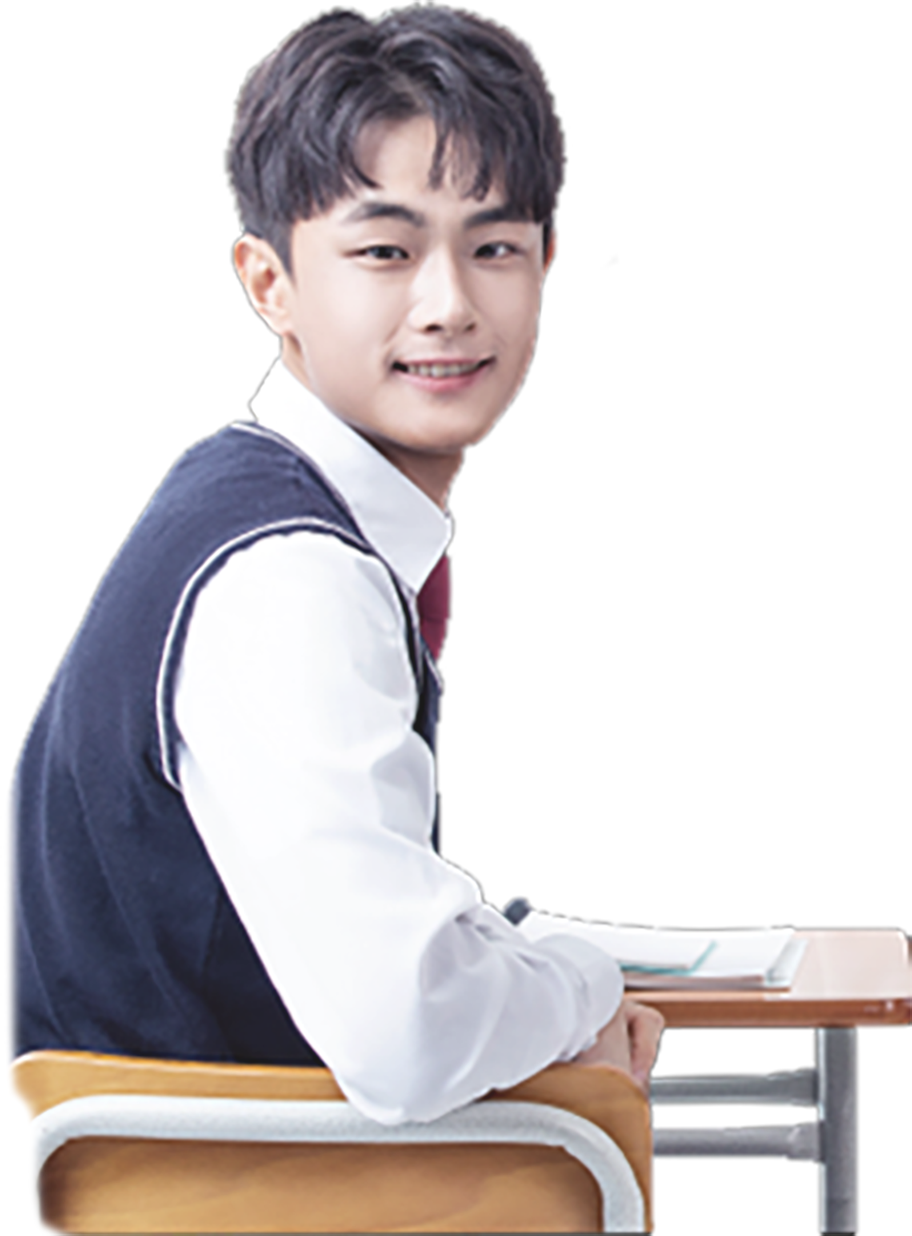
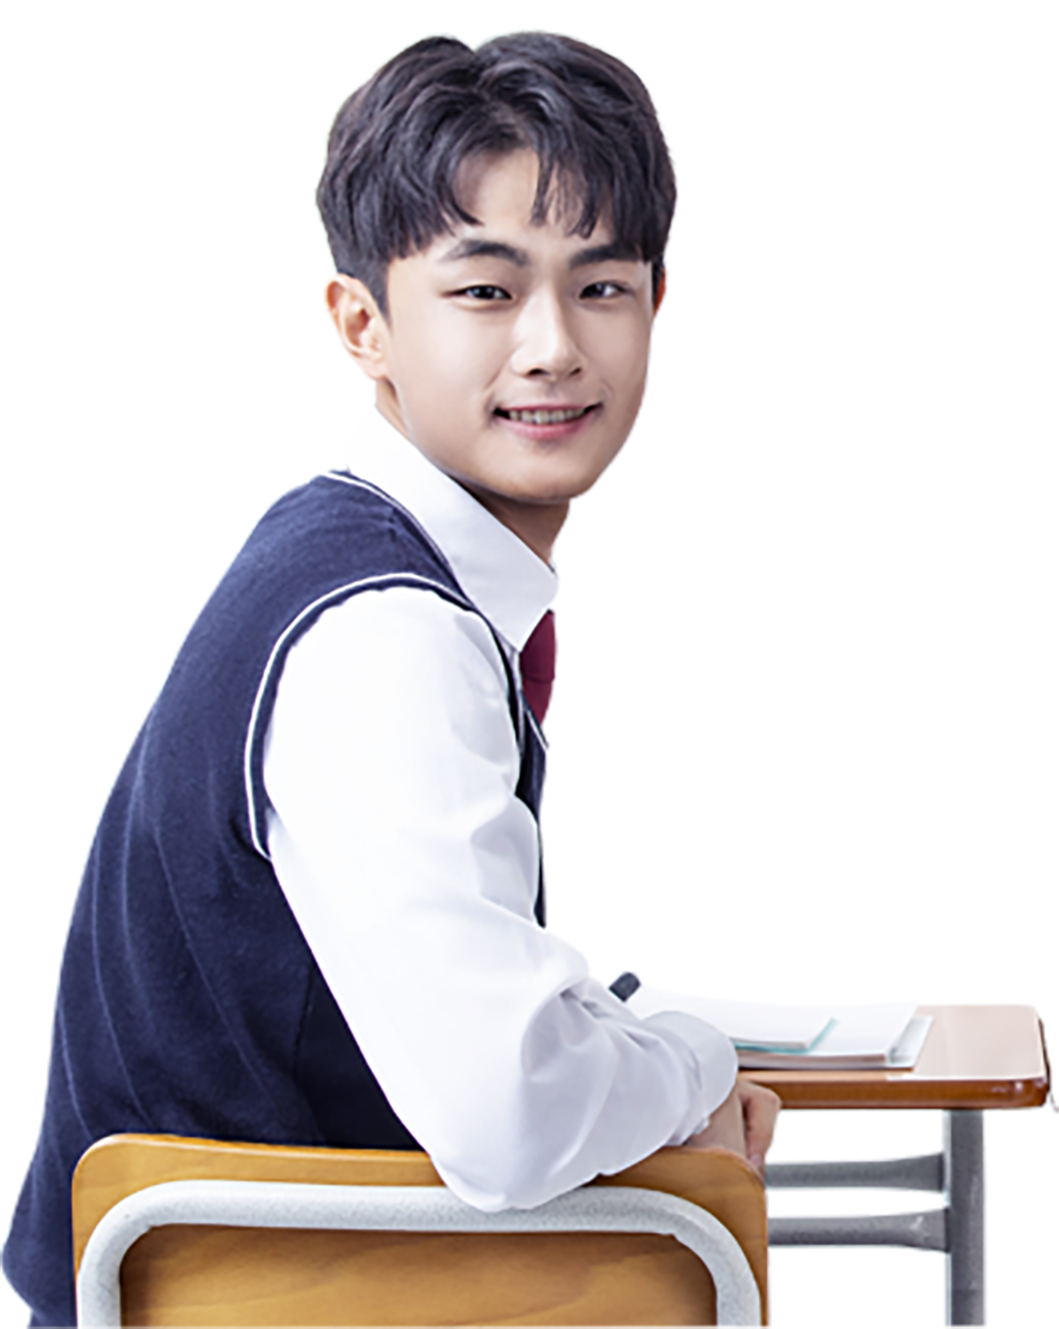
이미지 교체, section 컨텐츠 영역 수정

Changed region(s): [[0.0, 0.0, 1.0, 1.0]]

diff --git a/css/sub.css b/css/sub.css
@@ -64,27 +64,6 @@ figure .subBanner01 {
   background-size: cover;
   background-position: center;
 }
-
-/* .subContent03 .item03 ul li:nth-of-type(1):before{
-  width: 50px;
-  height: 52px;
-  background-image: url(../img/img_pro_01.png);
-}
-.subContent03 .item03 ul li:nth-of-type(2):before{
-  width: 50px;
-  height: 54px;
-  background-image: url(../img/img_pro_02.png);
-}
-.subContent03 .item03 ul li:nth-of-type(3):before{
-  width: 50px;
-  height: 50px;
-  background-image: url(../img/img_pro_03.png);
-}
-.subContent03 .item03 ul li:nth-of-type(4):before{
-  width: 47px;
-  height: 50px;
-  background-image: url(../img/img_pro_04.png);
-} */
 .subContent03 .item03 ul li {
   margin-right: 24px;
   display: flex;
@@ -1731,14 +1710,20 @@ figure .subBanner05 {
     clear: both;
   }
   .subContent03 .item03 ul li {
+    margin-right: 0;
     padding: 12px 0;
     box-sizing: border-box;
     margin-bottom: 9px;
-    margin-right: 9px;
     float: left;
     width: calc(100% / 2 - 9px);
     height: 54px;
     line-height: 54px;
+  }
+  .subContent03 .item03 ul li:nth-of-type(odd){
+    margin-right: auto;
+  }
+  .subContent03 .item03 ul li:nth-of-type(even){
+    margin-left: auto;
   }
   .subContent03 .item03 ul li span {
     font-size: 17px;
@@ -2411,10 +2396,27 @@ figure .subBanner05 {
     line-height: 47px;
     border-radius: 5px;
     border: solid 1px #929191;
+  }
+  .subContent04 button.btn-border span{
     color: #929191;
     font-size: 15px;
     font-weight: 500;
     text-align: center;
+    position: relative;
+  }
+  .subContent04 button.btn-border span::after{
+    content: "";
+    margin-right: -20px;
+    position: absolute;
+    right: 0;
+    top: 50%;
+    transform: translateY(-50%);
+    display: inline-block;
+    width: 11px;
+    height: 6px;
+    background-size: cover;
+    background-repeat: no-repeat;
+    background-image: url(../img/icon_btm.png);
   }
   .midBar .tit h1 {
     margin-bottom: 0;

diff --git a/css/style.css b/css/style.css
@@ -498,7 +498,7 @@ figure .mainBanner02 .figure_inner .mainBannerWrap::after {
   position: absolute;
   right: 0;
   top: 5px;
-  width: 297px;
+  width: 385px;
   height: 382px;
   background-image: url(../img/img_mainBanner02_w.png);
   background-size: cover;
@@ -709,6 +709,20 @@ footer .info p span {
     height: 215px;
     background-repeat: no-repeat;
     background-size: cover;
+  }
+  figure.main .figure_inner h1 {
+    font-size: 18px;
+    font-weight: 600;
+    letter-spacing: -0.9px;
+    text-align: center;
+    color: #484848;
+  }
+  figure.main .figure_inner p {
+    font-size: 14px;
+    font-weight: 300;
+    letter-spacing: -1.05px;
+    text-align: center;
+    color: #484848;
   }
   figure .figure_inner h1 {
     font-size: 20px;

diff --git a/subProgram.html b/subProgram.html
@@ -242,7 +242,7 @@
         <div class="row">
           <div class="tit">
             <span class="label">프로그램 이용 예시</span>
-            <div class="mobile"><button class="btn-border">펼쳐보기</button></div>
+            <div class="mobile"><button class="btn-border"><span>펼쳐보기</span></button></div>
             <h1>고2 학생이 <b>학기 초부터 시작</b>한 경우<br class="mobile">(스탠다드 기준)</h1>
             <div class="titLine mobile"></div>
           </div>
